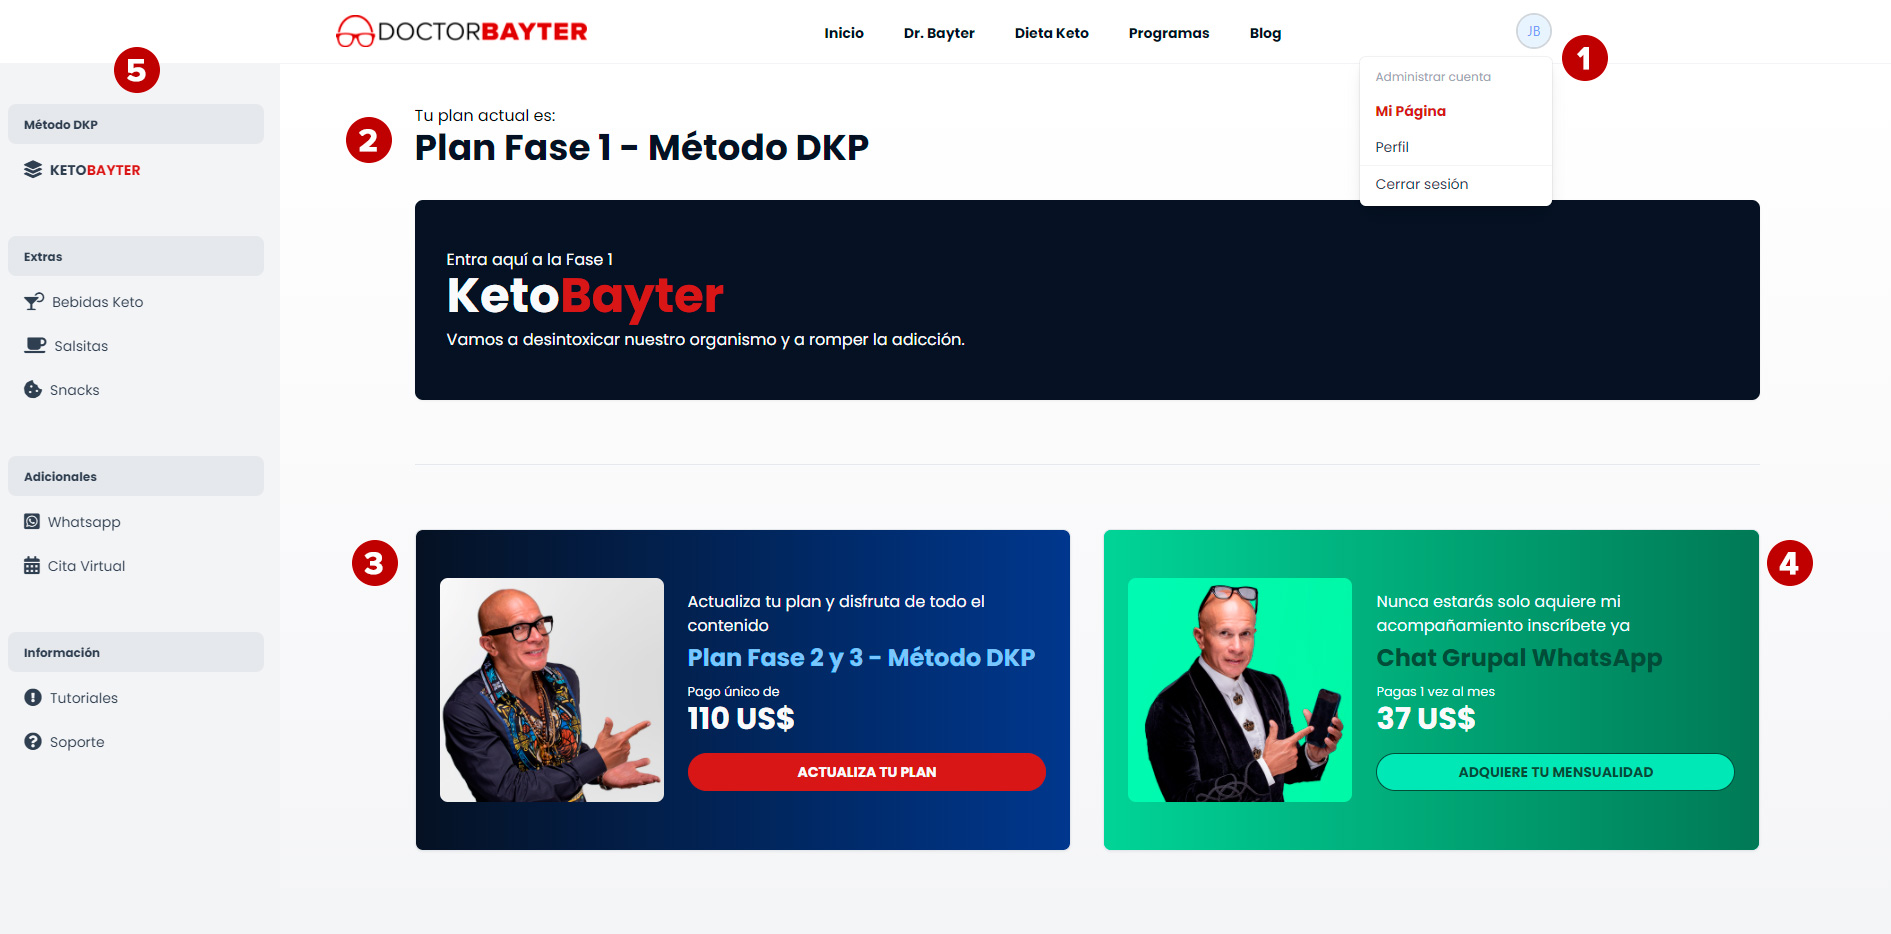
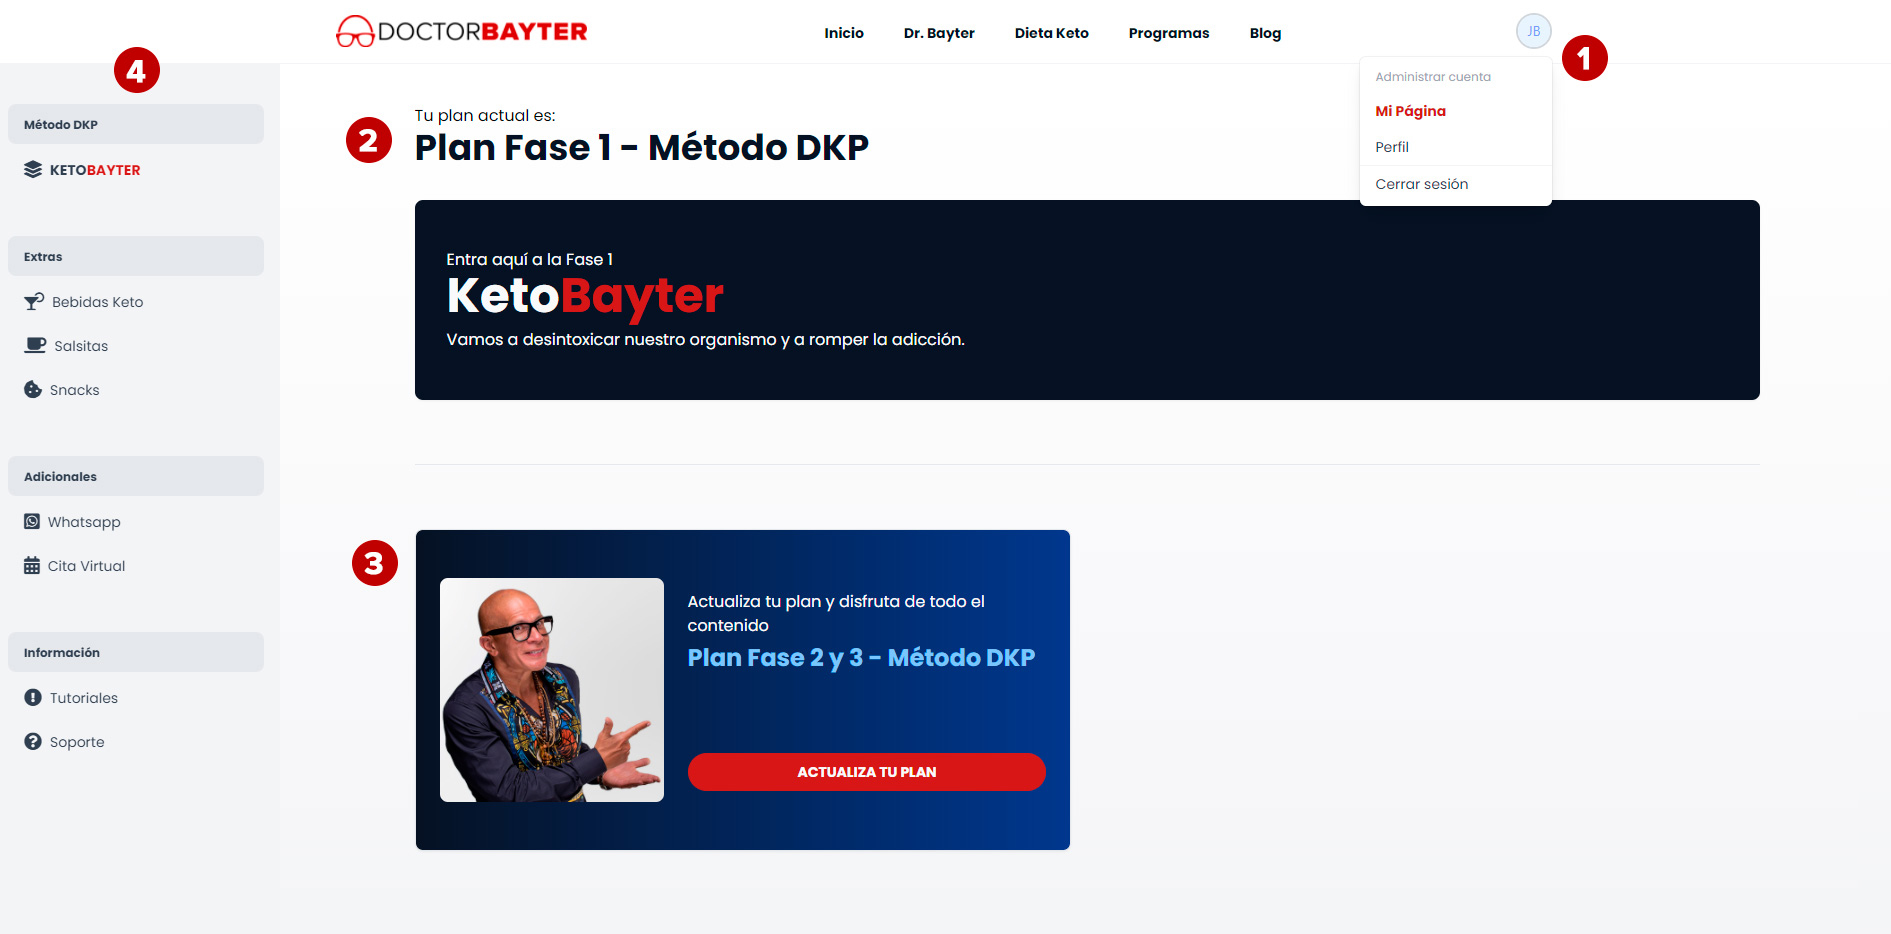
RETO NAVIDAD CERRADO

Changed region(s): [[0.5616, 0.5589, 0.9672, 0.9315], [0.3432, 0.7141, 0.4368, 0.7762], [0.0624, 0.0621, 0.0936, 0.0931]]

diff --git a/resources/views/plan/tutorial.blade.php b/resources/views/plan/tutorial.blade.php
@@ -68,7 +68,7 @@
                                                                         <p class="text-red-700 text-xl mb-2"><b>Actualización de tu plan</b></p>
                                                                         <p>Si deseas actualizar tu plan y compras las demás fases puedes hacerlo desde este banner. Esto solo aplica para quienes no tienen el <b>Plan Premium 4 Fases</b>.</p>
                                                                     </li>
-                                                                    <li class="text-base py-6">
+                                                                    <li class="text-base py-6 hidden">
                                                                         <p class="text-red-700 text-xl mb-2"><b>Chat grupal Whatsapp</b></p>
                                                                         <p>Aquí podrás comprar la anualidad de tu acceso al <b>Chat Grupal Whatsapp</b> con el Dr. Bayter. Ahora puedes adquirir más tiempo por anticipado. es decir que si deseas pagar la mensualidad del chat puedes hacerlo y el tiempo se te acumulará.</p>
                                                                     </li>
@@ -123,7 +123,7 @@
                                                                     </li>
                                                                     <li class="text-base py-6">
                                                                         <p class="text-red-700 text-xl mb-2"><b>Notas</b></p>
-                                                                        <p>Encontrarás las notas o recomendaciones para cada día.</p>
+                                                                        <p>En algunos días encontrarás las notas o recomendaciones de ser necesarias.</p>
                                                                     </li>
                                                                     <li class="text-base py-6 hidden">
                                                                         <p class="text-red-700 text-xl mb-2"><b>Video motivacional</b></p>
